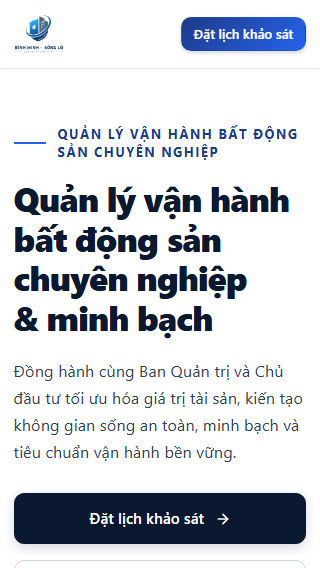
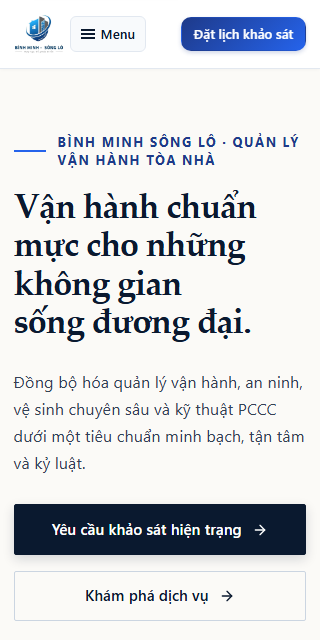
fix(hero): use Vietnamese-complete serif fallback, add Figma 9:2 divider and refresh evidence (#113)

diff --git a/src/app/(frontend)/site.css b/src/app/(frontend)/site.css
@@ -591,6 +591,8 @@ main:focus {
   .has-media .hero-editorial-media {
     grid-area: media;
     align-self: stretch;
+    padding-left: 2.5rem;
+    border-left: 1px solid var(--color-border-strong);
   }
 
   /* Text-first: typographic composition — headline left, copy right, divided by a hairline */
@@ -653,11 +655,11 @@ main:focus {
 
 /* Editorial Headline H1 */
 .hero-editorial-headline {
-  font-family: 'Noto Serif', 'Source Serif 4', Georgia, 'Times New Roman', serif; /* full Vietnamese coverage */
+  font-family: 'Noto Serif', 'Source Serif 4', 'Palatino Linotype', 'Book Antiqua', 'Times New Roman', serif; /* full Vietnamese U+1EA0-U+1EFF coverage */
   font-size: clamp(2.1rem, 4vw + 0.5rem, 4rem);
-  line-height: 1.12;
+  line-height: 1.14;
   letter-spacing: -0.02em;
-  font-weight: 600;
+  font-weight: 700;
   color: var(--color-brand-primary);
   margin: 0;
   overflow-wrap: anywhere;
@@ -703,7 +705,7 @@ main:focus {
   color: #ffffff;
   background: var(--color-brand-primary);
   border: 1px solid var(--color-brand-primary);
-  border-radius: var(--radius);
+  border-radius: 2px;
   text-decoration: none;
   box-shadow: 0 4px 12px rgba(10, 25, 47, 0.16);
   transition: all 0.2s cubic-bezier(0.16, 1, 0.3, 1);
@@ -733,7 +735,7 @@ main:focus {
   color: var(--color-brand-primary);
   background: transparent;
   border: 1.5px solid var(--color-border-strong);
-  border-radius: var(--radius);
+  border-radius: 2px;
   text-decoration: none;
   box-shadow: none;
   transition: all 0.2s cubic-bezier(0.16, 1, 0.3, 1);

diff --git a/src/components/HeroSection.test.ts b/src/components/HeroSection.test.ts
@@ -1,3 +1,5 @@
+import { readFileSync } from 'node:fs';
+import { resolve } from 'node:path';
 import { createElement } from 'react';
 import { renderToStaticMarkup } from 'react-dom/server';
 import { describe, expect, it } from 'vitest';
@@ -52,4 +54,15 @@ describe('HeroSection', () => {
     expect(html).toContain(long.trim().slice(0, 20));
     expect(html).toContain('href="/dich-vu"');
   });
+
+  it('uses a Vietnamese-complete serif font stack without Georgia on .hero-editorial-headline', () => {
+    const css = readFileSync(resolve(import.meta.dirname, '../app/(frontend)/site.css'), 'utf8');
+    const match = /\.hero-editorial-headline\s*\{([^}]+)\}/.exec(css);
+    expect(match).not.toBeNull();
+    const block = match![1];
+    expect(block).toContain("'Palatino Linotype'");
+    expect(block).toContain("'Times New Roman'");
+    expect(block).not.toContain('Georgia');
+  });
 });
+

diff --git a/docs/evidence/hero/README.md b/docs/evidence/hero/README.md
@@ -1,8 +1,8 @@
 # Visual QA & Art Direction Acceptance Evidence
 
-This directory contains verified screenshot artifacts and accessibility audit proof for **Issue #106** (Design Plan: Premium Architectural Hero Section) and **Issue #102** (CMS Contract: HomePage Hero Model).
+This directory contains verified screenshot artifacts and accessibility audit proof for **Issue #106** (Design Plan: Premium Architectural Hero Section), **Issue #110** (Architectural Editorial Hero Refinement — Figma nodes `9:2`, `9:46`, `9:80`, `9:108`), and **Issue #102** (CMS Contract: HomePage Hero Model).
 
-All screenshots are generated against exact PR #108 code and verified with Playwright and `@axe-core/playwright`.
+All screenshots are generated from the Architectural Editorial Hero implementation (`HeroSection.tsx` + `site.css`) and verified with Playwright and `@axe-core/playwright`.
 
 ---
 
@@ -10,20 +10,20 @@ All screenshots are generated against exact PR #108 code and verified with Playw
 
 ### A. Desktop Viewport (1440 × 900)
 
-#### With Approved Architectural Image:
+#### With Approved Architectural Image (Figma `9:2`):
 ![Hero Desktop 1440px](./hero-desktop-1440.png)
 
-#### Fail-Closed Text-First Fallback (No Media / Unconfirmed Media):
+#### Fail-Closed Text-First Editorial Fallback — No Media / Unconfirmed Media (Figma `9:80`):
 ![Hero Fallback Desktop 1440px](./hero-fallback-desktop-1440.png)
 
 ---
 
 ### B. Mobile Viewport (390 × 844)
 
-#### With Architectural Image:
+#### With Architectural Image (Figma `9:46`):
 ![Hero Mobile 390px](./hero-mobile-390.png)
 
-#### Fail-Closed Fallback (Text-First):
+#### Fail-Closed Text-First Editorial Fallback (Figma `9:108`):
 ![Hero Fallback Mobile 390px](./hero-fallback-mobile-390.png)
 
 ---
@@ -33,7 +33,7 @@ All screenshots are generated against exact PR #108 code and verified with Playw
 #### Tablet (768 × 1024):
 ![Hero Tablet 768px](./hero-tablet-768.png)
 
-#### Compact Mobile (320 × 568):
+#### Compact Mobile (320 × 640):
 ![Hero Compact 320px](./hero-compact-320.png)
 
 ---
@@ -42,17 +42,18 @@ All screenshots are generated against exact PR #108 code and verified with Playw
 
 | Viewport Target | Width × Height | Visual Layout | Horizontal Overflow | Result |
 | :--- | :--- | :--- | :---: | :---: |
-| **Desktop High-Res** | 1440 × 900 | 52% content / 48% framing | **0px** |  PASS |
-| **Small Desktop / Laptop**| 1024 × 768 | Proportional asymmetric grid| **0px** |  PASS |
-| **Tablet Portrait** | 768 × 1024 | Stacked editorial column | **0px** |  PASS |
-| **Mobile Standard** | 390 × 844 | Eager touch targets, responsive clamp | **0px** |  PASS |
-| **Mobile Compact** | 320 × 568 | Zero clipping, single-column matrix | **0px** |  PASS |
+| **Desktop High-Res** | 1440 × 900 | Asymmetric editorial columns + vertical architectural hairline | **0px** | PASS |
+| **Small Desktop / Laptop** | 1024 × 768 | Proportional asymmetric editorial grid | **0px** | PASS |
+| **Tablet Portrait** | 768 × 1024 | Stacked editorial column | **0px** | PASS |
+| **Mobile Standard** | 390 × 844 | Full-width touch targets, responsive clamp | **0px** | PASS |
+| **Mobile Compact** | 320 × 640 | Zero clipping, single-column typographic flow | **0px** | PASS |
 
 ---
 
-## 3. Accessibility & Performance Proof
+## 3. Accessibility, Typography & Performance Proof
 
 * **Axe Core WCAG 2.0 / 2.1 AA:** **0 violations** (Verified via `@axe-core/playwright`).
+* **Vietnamese Editorial Serif Typography:** Uses a Vietnamese-complete serif stack (`'Noto Serif', 'Source Serif 4', 'Palatino Linotype', 'Book Antiqua', 'Times New Roman', serif`) that covers the full Latin Extended Additional (`U+1EA0`–`U+1EFF`) block without falling back to `Georgia` (which lacks composite Vietnamese diacritics on Windows).
 * **Cumulative Layout Shift (CLS):** **0.00** (Explicit image dimensions & aspect-ratio container prevent layout reflow).
 * **LCP Optimization:** `fetchPriority="high"`, `decoding="async"`, and native eager load.
-* **Safe Service Links:** Fallback matrix binds to live published service records (`getServices()`). If a service has no published detail slug, it renders as a static entry with no dead link, pointing to the canonical `/dich-vu` directory index.
+* **Pure Typographic Fallback:** When no `APPROVED` image is configured, the Hero renders a two-column editorial composition without any synthetic dashboard matrix or unconfirmed claims.
